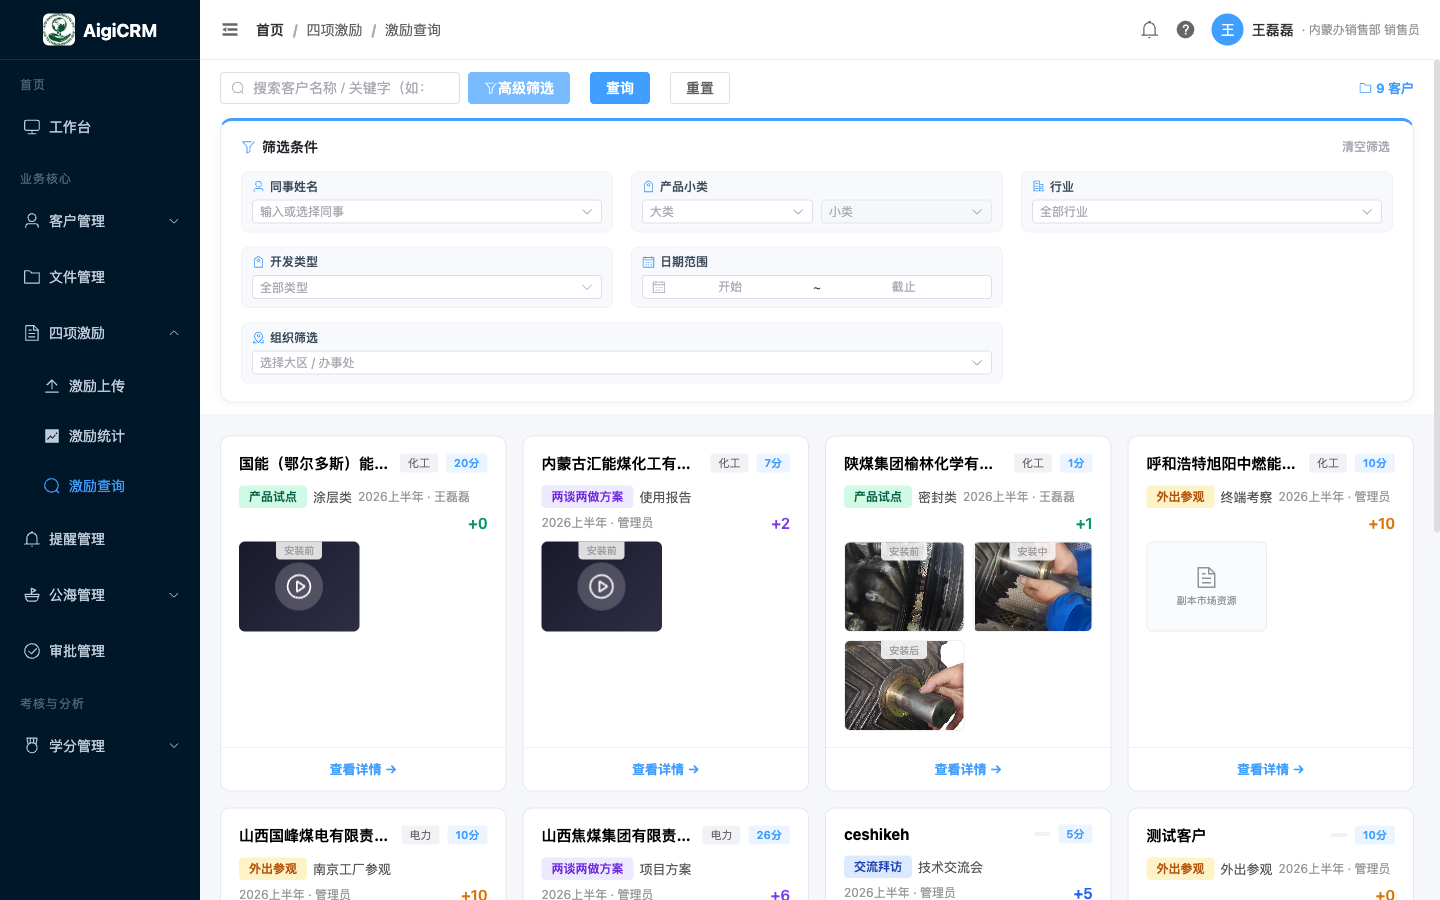
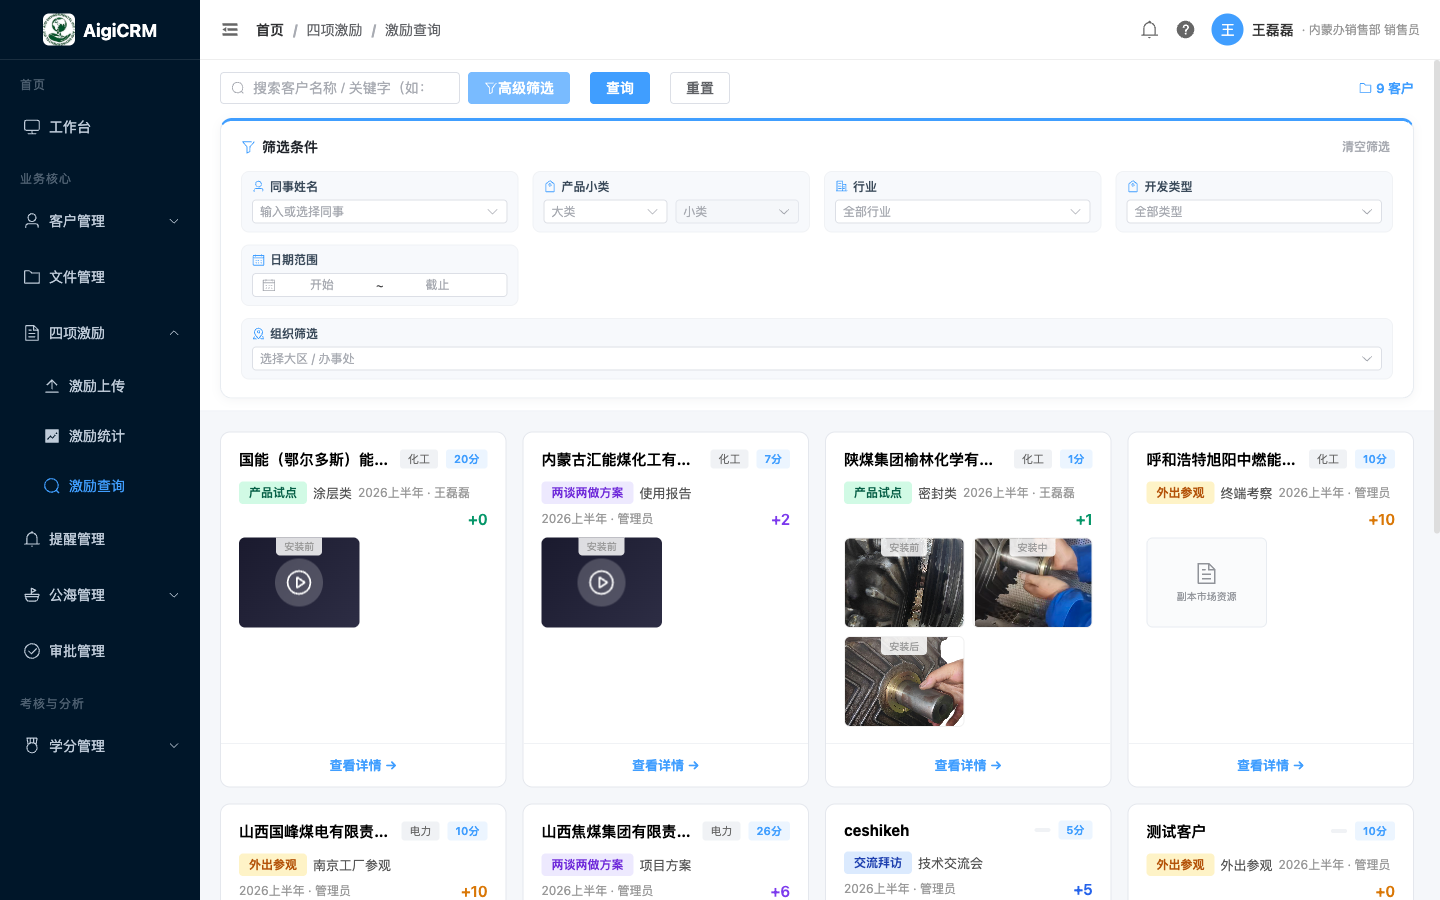
feat: 高级筛选改 4 列布局——一行放 4 个字段，组织筛选整行

diff --git a/ycmn-ui/src/views/incentive/search.vue b/ycmn-ui/src/views/incentive/search.vue
@@ -48,7 +48,7 @@
             <label class="adv-field-label"><el-icon><Calendar /></el-icon> 日期范围</label>
             <el-date-picker v-model="fDateRange" type="daterange" range-separator="~" start-placeholder="开始" end-placeholder="截止" value-format="YYYY-MM-DD" @change="doSearch" size="small" style="width:100%" />
           </div>
-          <div class="adv-field span-2">
+          <div class="adv-field span-4">
             <label class="adv-field-label"><el-icon><MapLocation /></el-icon> 组织筛选</label>
             <el-tree-select v-model="fOrgIds" :data="orgTree" :props="{label:'deptName',value:'id',children:'children'}" placeholder="选择大区 / 办事处" clearable filterable multiple check-strictly show-checkbox collapse-tags collapse-tags-tooltip @change="doSearch" size="small" style="width:100%" />
           </div>
@@ -258,10 +258,11 @@ onMounted(()=>{loadCats();loadUsers();loadOrgs();doSearch()})
 .adv-title{display:flex;align-items:center;gap:6px;font-size:14px;font-weight:600;color:#1f2329}
 .adv-title .el-icon{color:#409eff;font-size:15px}
 .adv-header-right{display:flex;align-items:center;gap:10px}
-.adv-grid{display:grid;grid-template-columns:repeat(3,1fr);gap:14px 18px}
+.adv-grid{display:grid;grid-template-columns:repeat(4,1fr);gap:12px 14px}
 .adv-field{min-width:0;background:#f7f9fc;border:1px solid #f0f2f5;border-radius:8px;padding:6px 10px 8px;transition:border-color .2s, box-shadow .2s}
 .adv-field:hover{border-color:#d3e3f7;box-shadow:0 2px 6px rgba(64,158,255,.06)}
 .adv-field.span-2{grid-column:span 2}
+.adv-field.span-4{grid-column:1/-1}
 .adv-field-label{display:flex;align-items:center;gap:5px;font-size:12px;font-weight:600;color:#3a4a5a;margin-bottom:5px}
 .adv-field-label .el-icon{font-size:13px;color:#409eff}
 .adv-field :deep(.el-select),.adv-field :deep(.el-date-picker){width:100%}
